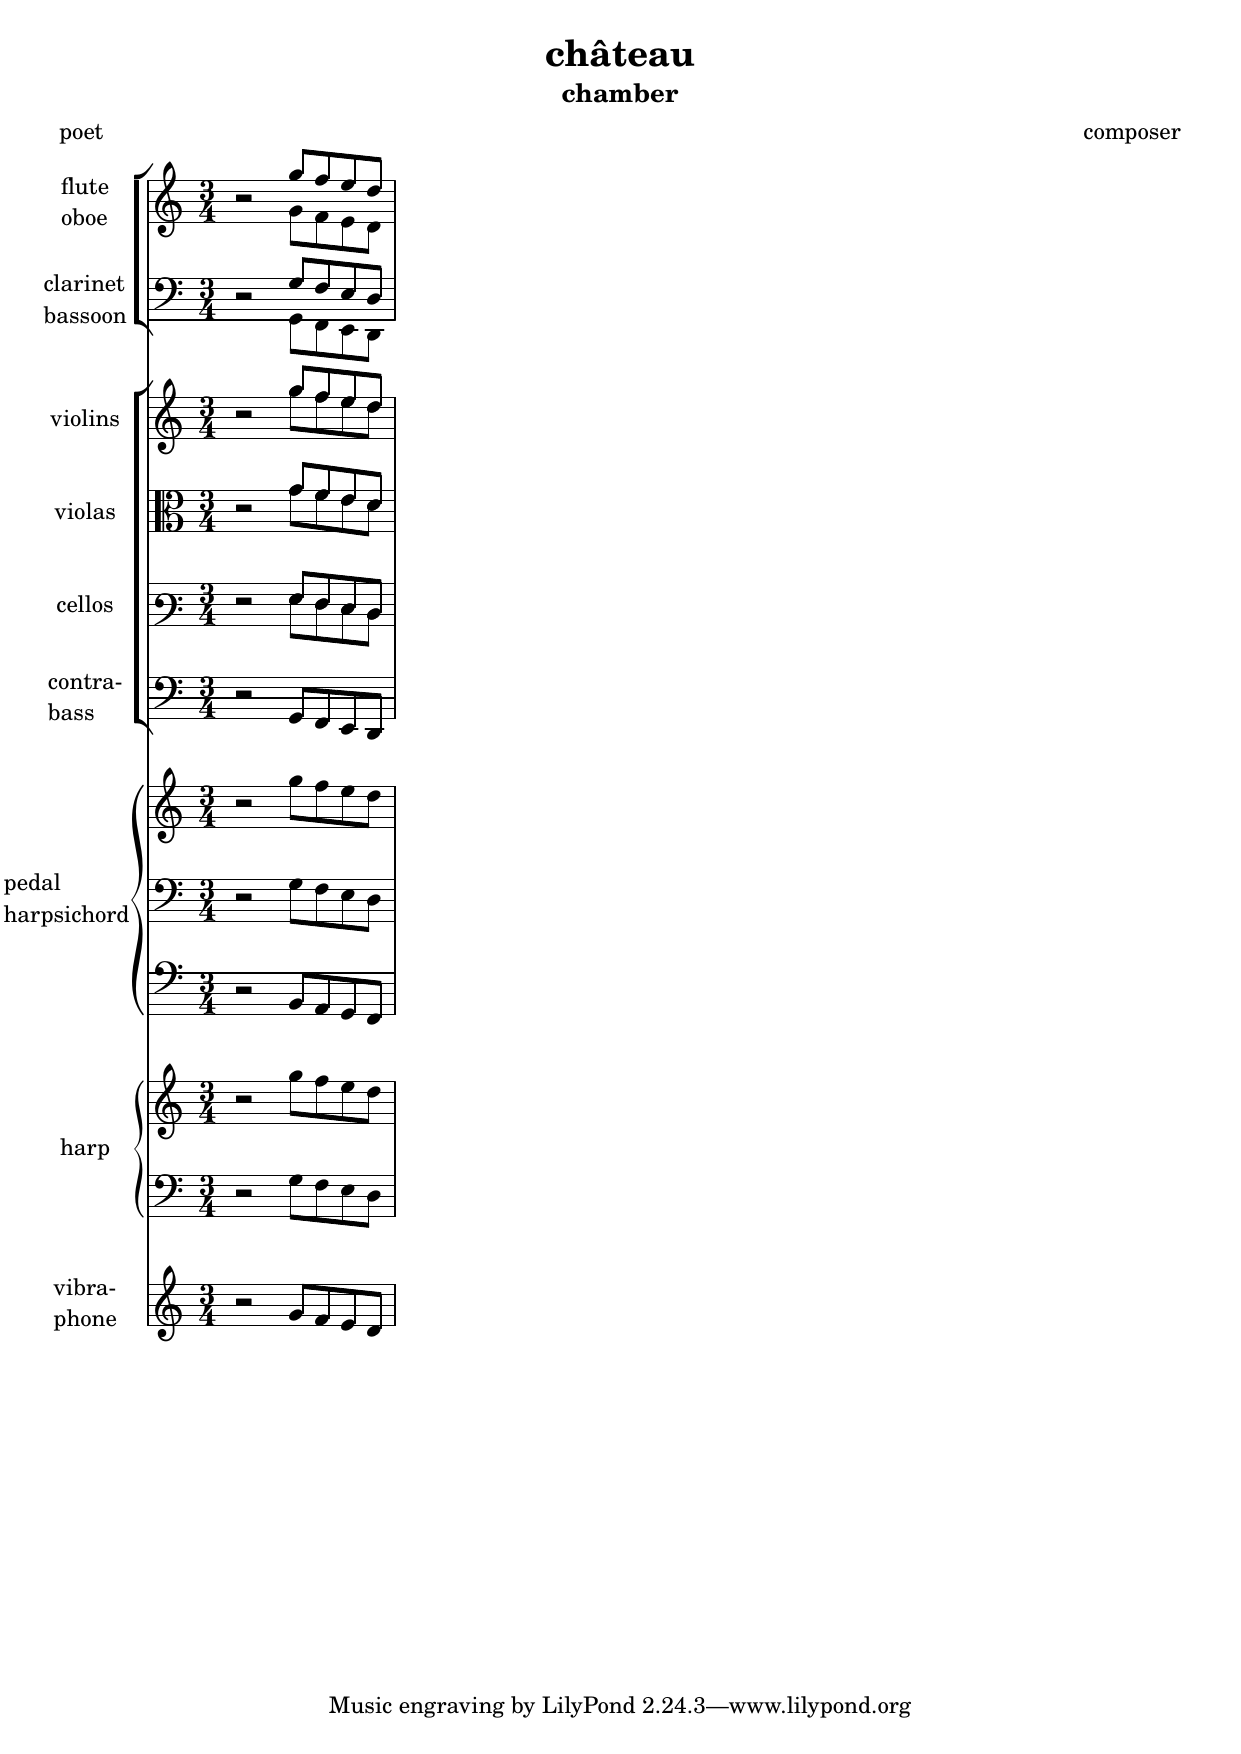
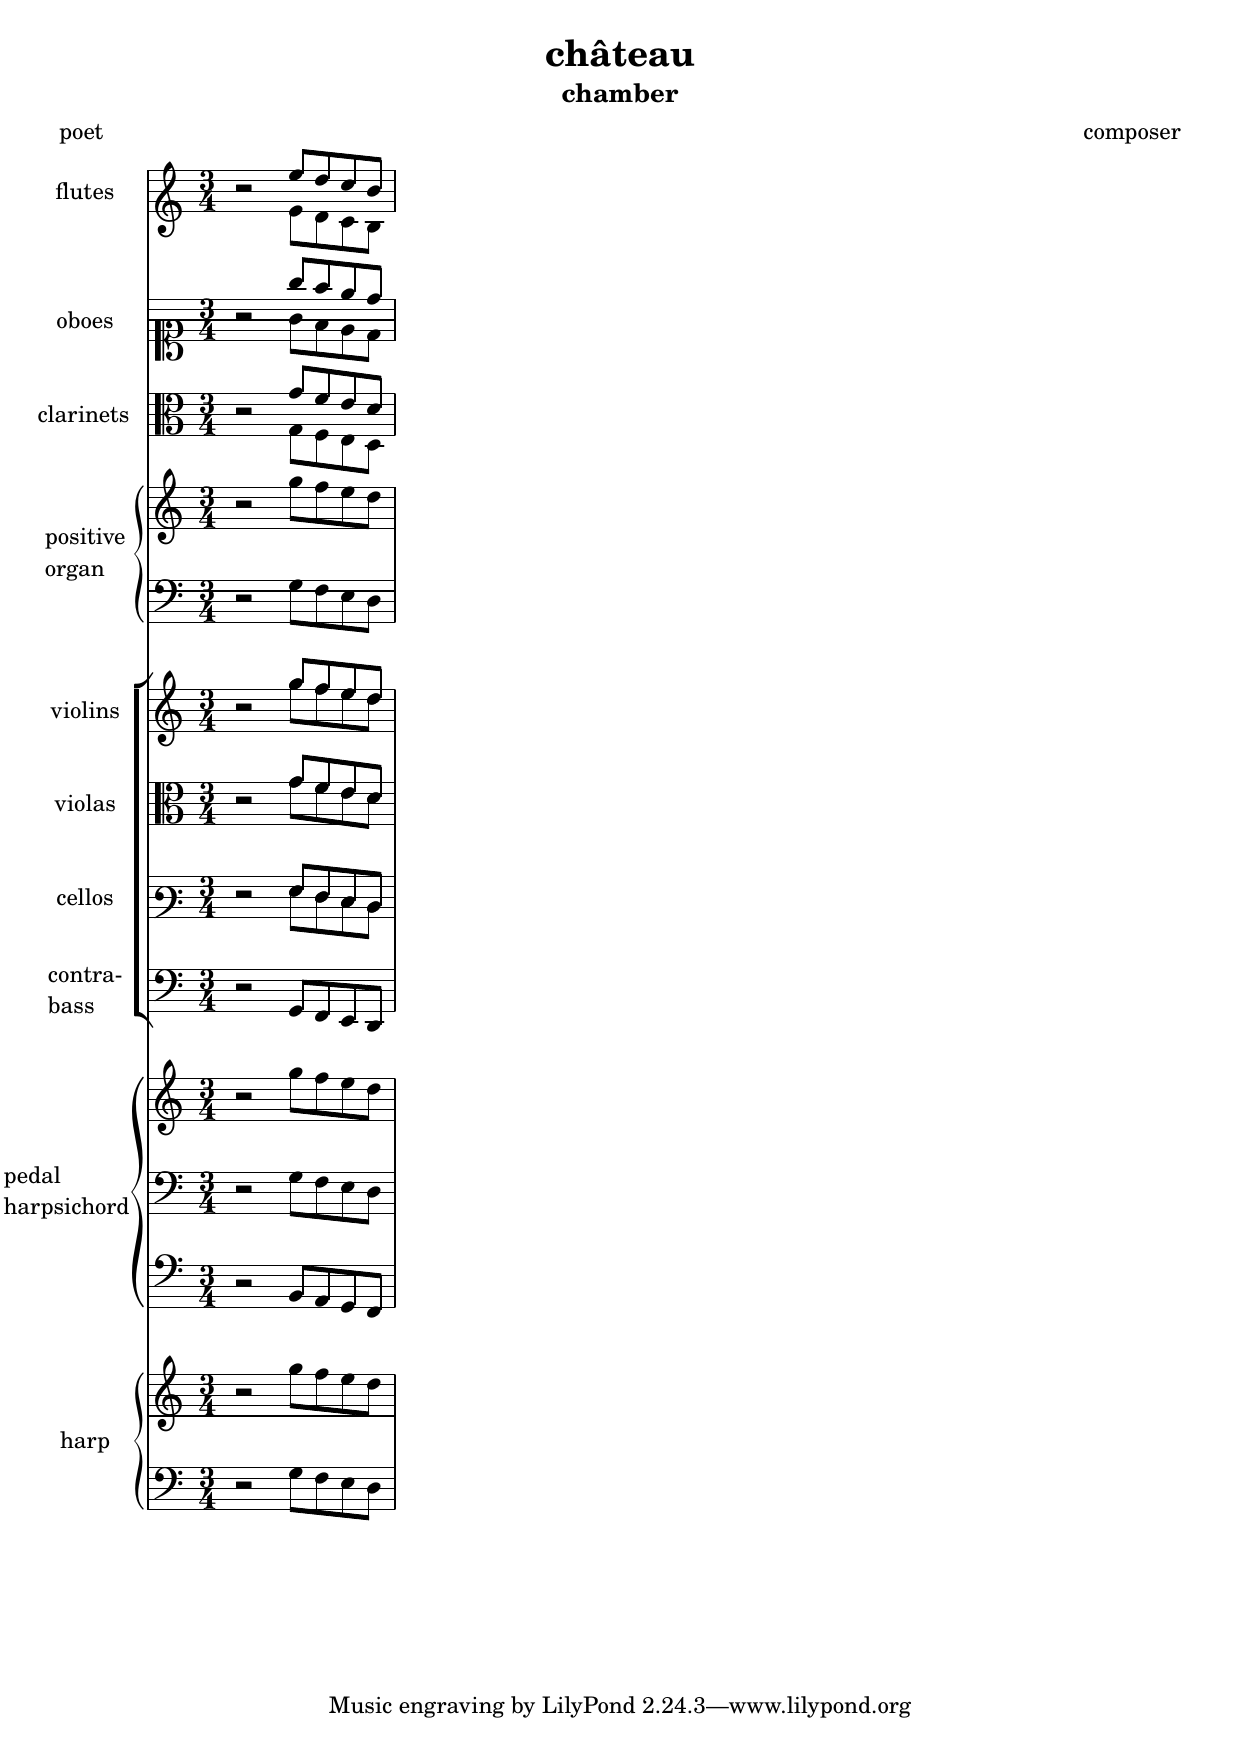
...

Changed region(s): [[0.0, 0.0924, 0.3368, 0.5849], [0.0, 0.6157, 0.3062, 0.862], [0.1531, 0.0924, 0.2143, 0.1231]]

diff --git a/musica/template/chateau.html b/musica/template/chateau.html
@@ -3,7 +3,7 @@
 "http://www.w3.org/TR/xhtml1/DTD/xhtml1-strict.dtd">
 <html xmlns="http://www.w3.org/1999/xhtml" lang="en" xml:lang="en">
 <head>
-<!-- 2024-02-14 mer 14:19 -->
+<!-- 2024-02-14 mer 14:38 -->
 <meta http-equiv="Content-Type" content="text/html;charset=utf-8" />
 <meta name="viewport" content="width=device-width, initial-scale=1" />
 <title>Eclats de vers : Opus : Musica : template</title>
@@ -205,20 +205,20 @@
 <h2>Table of Contents</h2>
 <div id="text-table-of-contents" role="doc-toc">
 <ul>
-<li><a href="#orga931ee0">1. Château</a></li>
+<li><a href="#org6b66cd9">1. Château</a></li>
 </ul>
 </div>
 </div>
 
-<div id="outline-container-orga931ee0" class="outline-2">
-<h2 id="orga931ee0"><span class="section-number-2">1.</span> Château</h2>
+<div id="outline-container-org6b66cd9" class="outline-2">
+<h2 id="org6b66cd9"><span class="section-number-2">1.</span> Château</h2>
 <div class="outline-text-2" id="text-1">
 <p>
 Le résultat :
 </p>
 
 
-<div id="orged53b98" class="figure">
+<div id="org594ccd9" class="figure">
 <p><img src="../../image/musica/template/chateau.png" alt="chateau.png" />
 </p>
 </div>
@@ -2801,18 +2801,18 @@ groupGuitars = \new StaffGroup
       %\groupChoirQuintet
       %\groupChoirSextet
       %\groupChoirSeptet
-      \groupWoodQuartet
+      %\groupWoodQuartet
       %\groupWoodQuintet
       %\groupWoodSextet
-      %\staffFlutes
-      %\staffOboes
+      \staffFlutes
+      \staffOboes
       %\staffEnglishHorns
-      %\staffClarinets
+      \staffClarinets
       %\staffBassoons
       %\groupSaxophoneQuartet
       %\groupBrassQuartet
       %\groupBrassQuintet
-      %\groupPositiveOrgan
+      \groupPositiveOrgan
       %\groupChurchOrgan
       %\groupAccordion
       %\groupStringQuartet
@@ -2825,7 +2825,7 @@ groupGuitars = \new StaffGroup
       \groupHarp
       %\groupLutes
       %\groupGuitars
-      \staffVibraphone
+      %\staffVibraphone
       %\staffDrums
     &gt;&gt;
     % ---- layout, see beginning of file
@@ -2860,7 +2860,7 @@ groupGuitars = \new StaffGroup
 </div>
 <div id="postamble" class="status">
 <p class="author">Author: chimay</p>
-<p class="date">Created: 2024-02-14 mer 14:19</p>
+<p class="date">Created: 2024-02-14 mer 14:38</p>
 <p class="validation"><a href="https://validator.w3.org/check?uri=referer">Validate</a></p>
 </div>
 </body>
